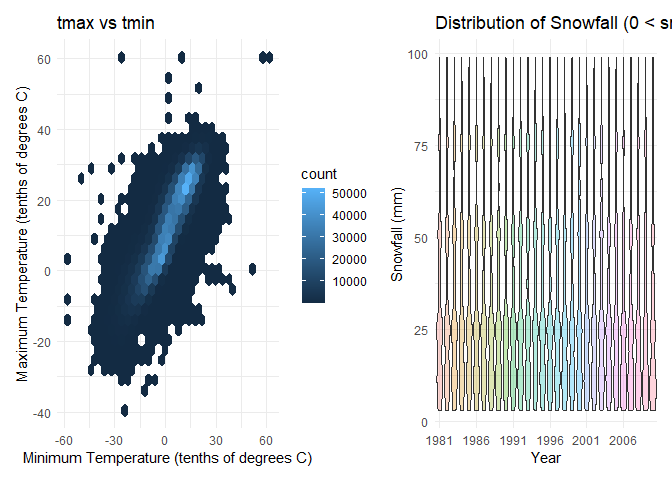
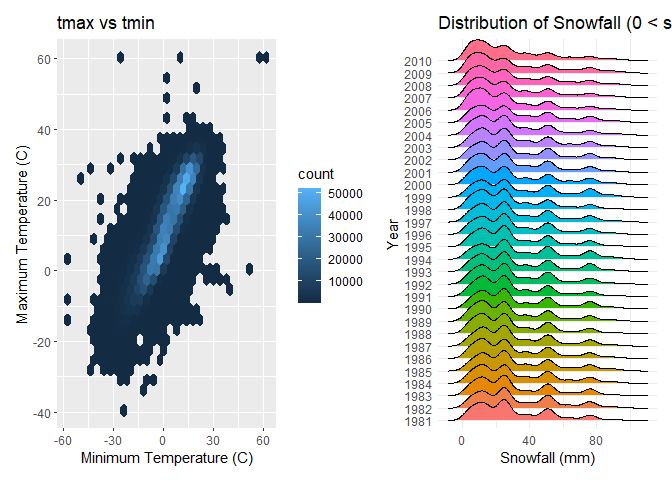
q1 finished

diff --git a/p8105_hw3_SZ3319.md b/p8105_hw3_SZ3319.md
@@ -249,27 +249,20 @@ panel_i <-
   geom_hex() + # Using a hexbin plot instead of scatter
   labs(
     title = "tmax vs tmin",
-    x = "Minimum Temperature (tenths of degrees C)",
-    y = "Maximum Temperature (tenths of degrees C)"
-  ) +
-  theme_minimal()
+    x = "Minimum Temperature (C)",
+    y = "Maximum Temperature (C)"
+  ) 
 
+library(ggridges)
 # Panel (ii): Distribution of snowfall
 panel_ii = 
   ny_noaa_clean |> 
-  ggplot(aes(x = factor(year), y = snow, fill = factor(year))) +
-  geom_violin(alpha = .3) +
+  ggplot(aes(y = factor(year), x = snow, fill = factor(year))) +
+  geom_density_ridges()+
   labs(
     title = "Distribution of Snowfall (0 < snow < 100) by Year",
-    x = "Year",
-    y = "Snowfall (mm)"
-  ) +
-  scale_x_discrete(
-    breaks = seq(
-      min(pull(ny_noaa_clean, year), na.rm = TRUE),
-      max(pull(ny_noaa_clean, year), na.rm = TRUE),
-      by = 5
-    )
+    y = "Year",
+    x = "Snowfall (mm)"
   ) +
   theme_minimal() +
   theme(legend.position = "none")
@@ -277,8 +270,12 @@ panel_ii =
 (panel_i + panel_ii) # combine 2 plots 
 ```
 
+    ## Picking joint bandwidth of 3.76
+
 ![](p8105_hw3_SZ3319_files/figure-gfm/unnamed-chunk-6-1.png)<!-- -->
 
 ## Problem 2
 
 ### 2.1
+
+### 2.2
